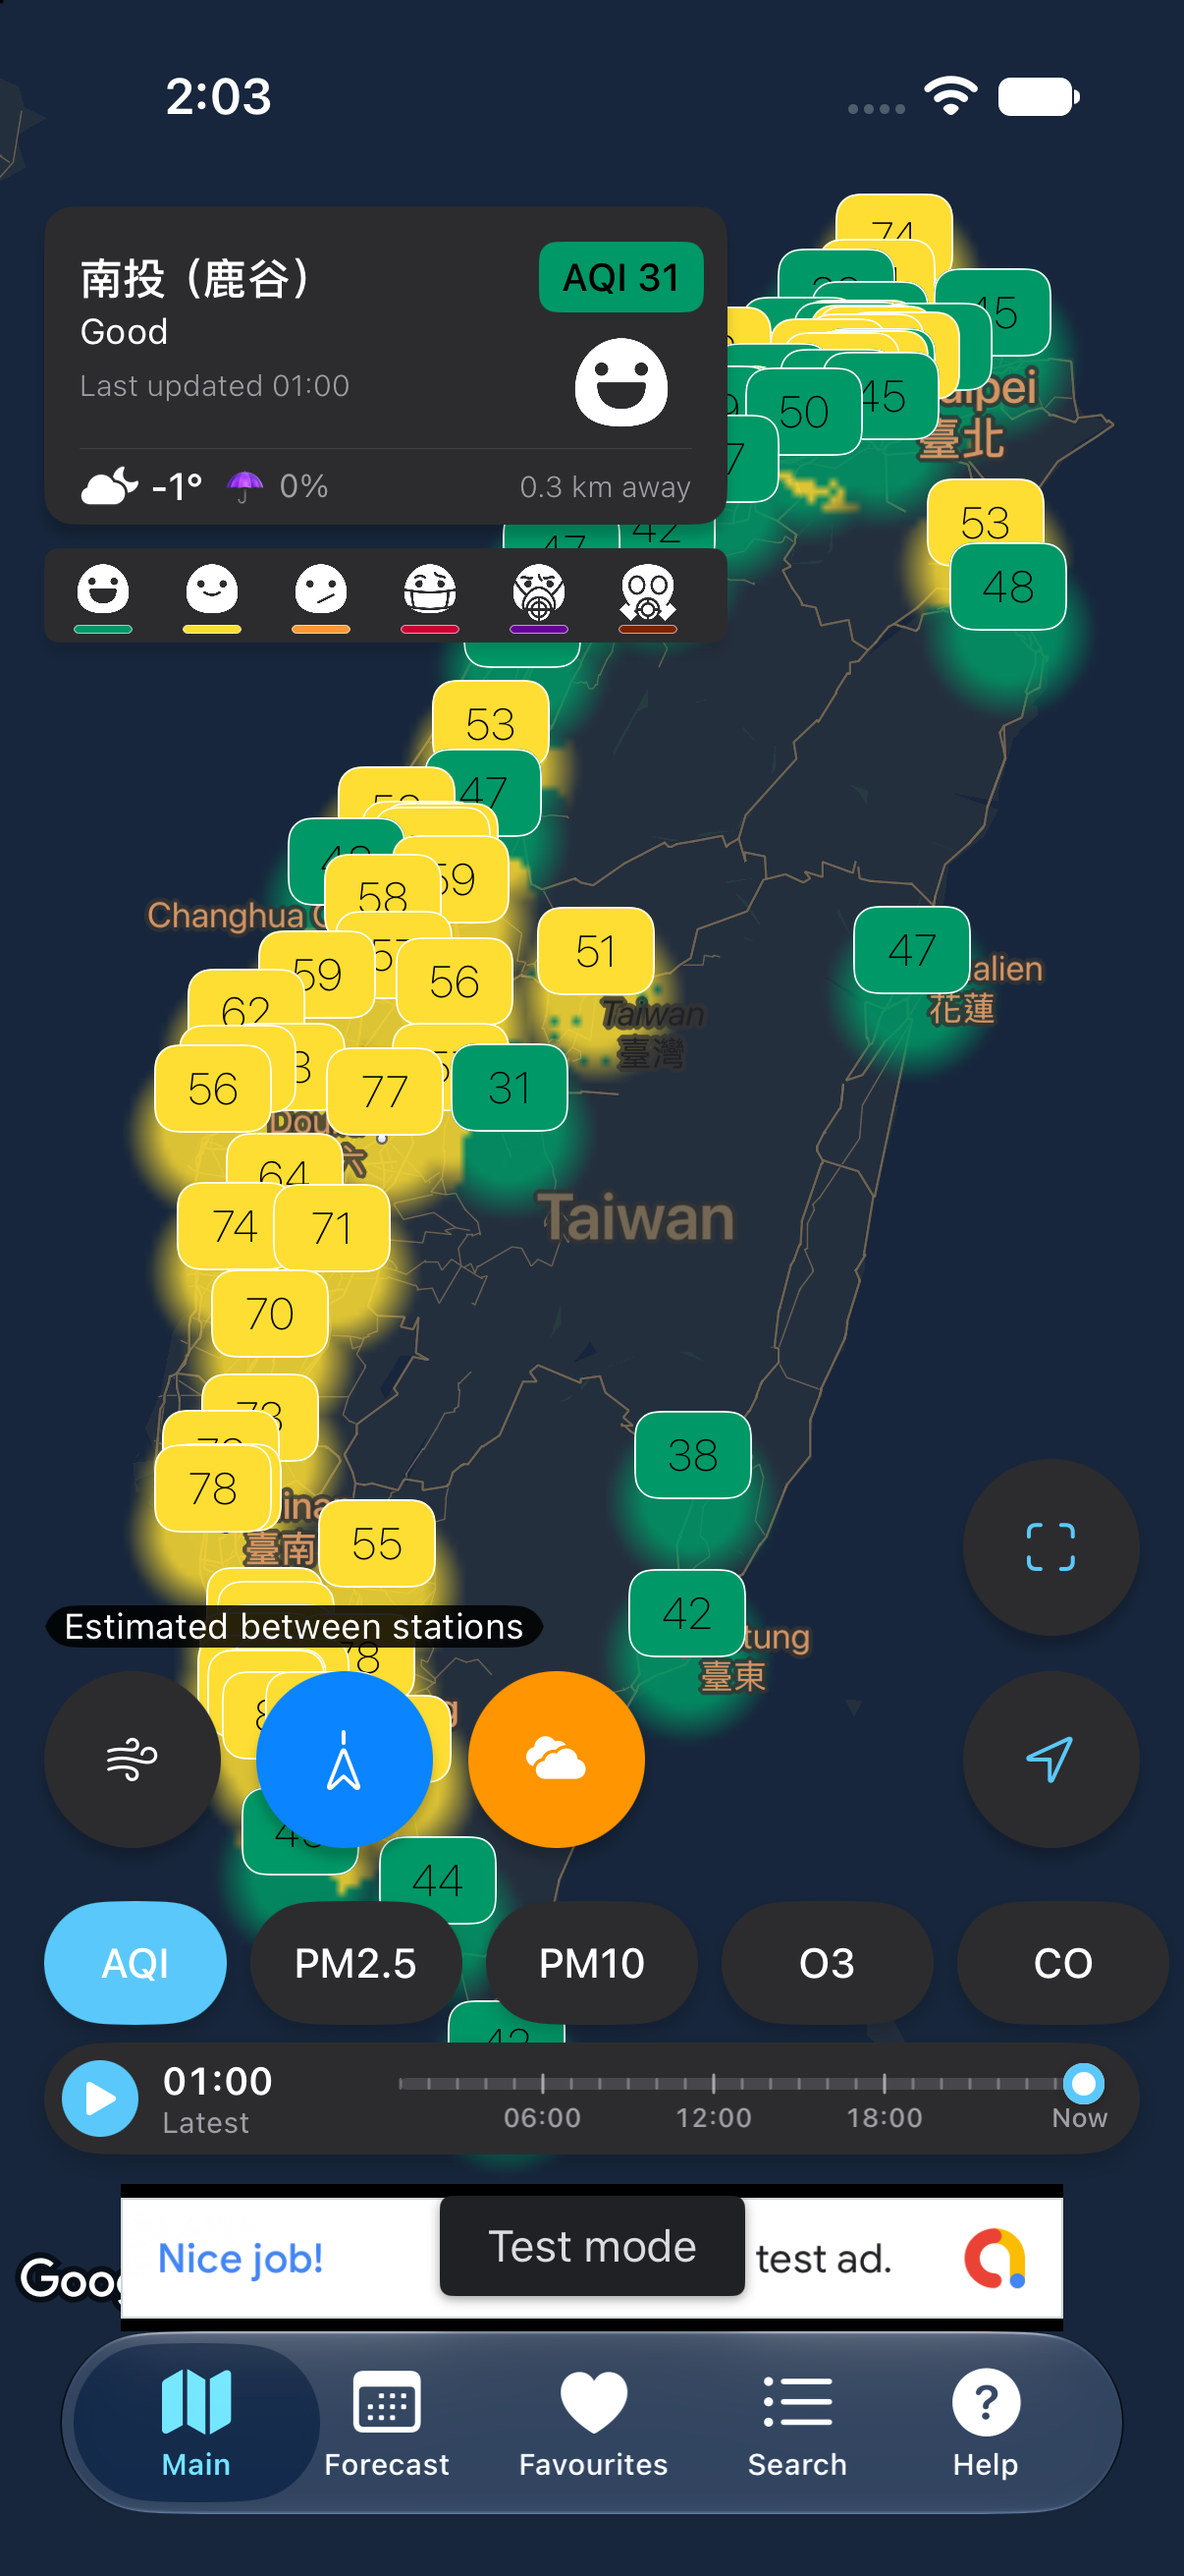
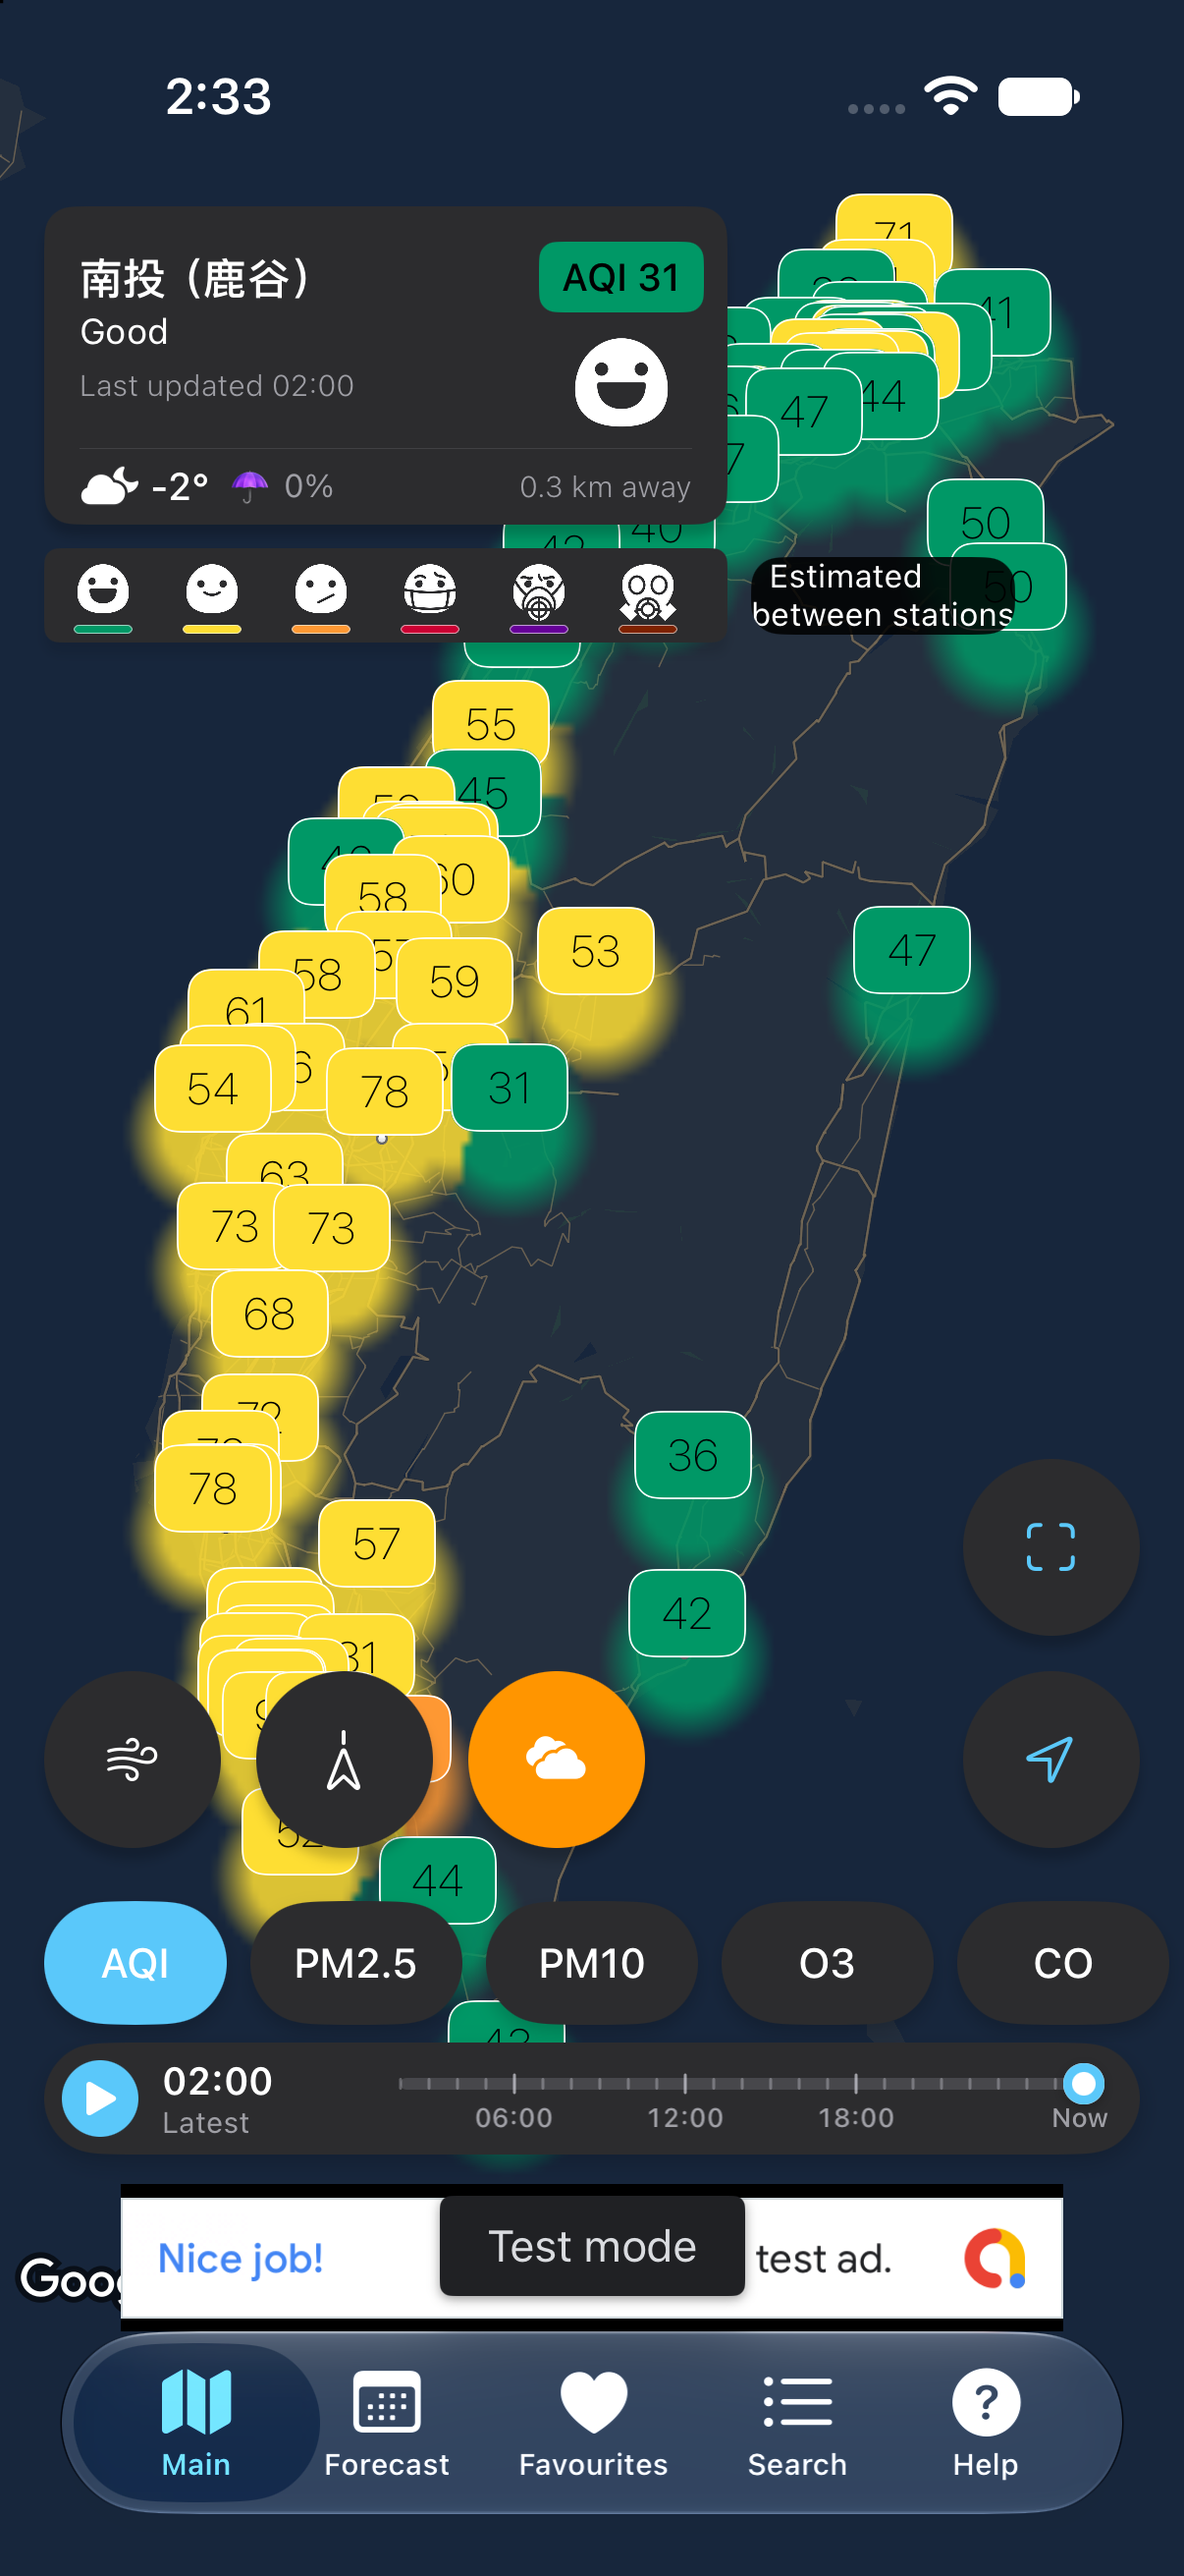
TWAQ-22: caption beside the colour legend, retry after a failed render

diff --git a/ios/TWAQI/Views/Main/HeatmapOverlay.swift b/ios/TWAQI/Views/Main/HeatmapOverlay.swift
@@ -55,7 +55,12 @@ final class HeatmapOverlay {
             let cells = HeatmapInterpolation.grid(samples: samples, bounds: Self.bounds, width: width, height: height)
             let image = HeatmapInterpolation.image(cells: cells, width: width, height: height, color: color)
             DispatchQueue.main.async {
-                guard let self, wanted == self.generation, let image else { return }
+                guard let self, wanted == self.generation else { return }
+                guard let image else {
+                    // Nothing drawn: let the same inputs try again.
+                    self.renderedKey = nil
+                    return
+                }
                 self.show(UIImage(cgImage: image))
             }
         }
@@ -133,7 +138,8 @@ final class HeatmapNoteLabel: UILabel {
     override init(frame: CGRect) {
         super.init(frame: frame)
         text = "  " + "Map.Heatmap.estimated".localized + "  "
-        font = .preferredFont(forTextStyle: .caption1)
+        font = .preferredFont(forTextStyle: .caption2)
+        numberOfLines = 2
         adjustsFontForContentSizeCategory = true
         textColor = .label
         backgroundColor = UIColor.systemBackground.withAlphaComponent(0.85)

diff --git a/ios/TWAQI/Views/Main/GoogleMapController.swift b/ios/TWAQI/Views/Main/GoogleMapController.swift
@@ -753,9 +753,12 @@ class GoogleMapViewController: UIViewController, GMSMapViewDelegate {
             make.height.equalTo(60)
         }
         view.addSubview(heatmapNote)
+        // Trails the colour legend, not the button row: the row stays one
+        // button tall so it clears the station card in landscape.
         heatmapNote.snp.makeConstraints { (make) -> Void in
-            make.left.equalTo(windModeButton)
-            make.bottom.equalTo(windModeButton.snp.top).offset(-8)
+            make.left.equalTo(airStatusesView.snp.right).offset(8)
+            make.centerY.equalTo(airStatusesView)
+            make.right.lessThanOrEqualTo(view.safeAreaLayoutGuide.snp.right).offset(-15)
         }
 
         self.view = view
